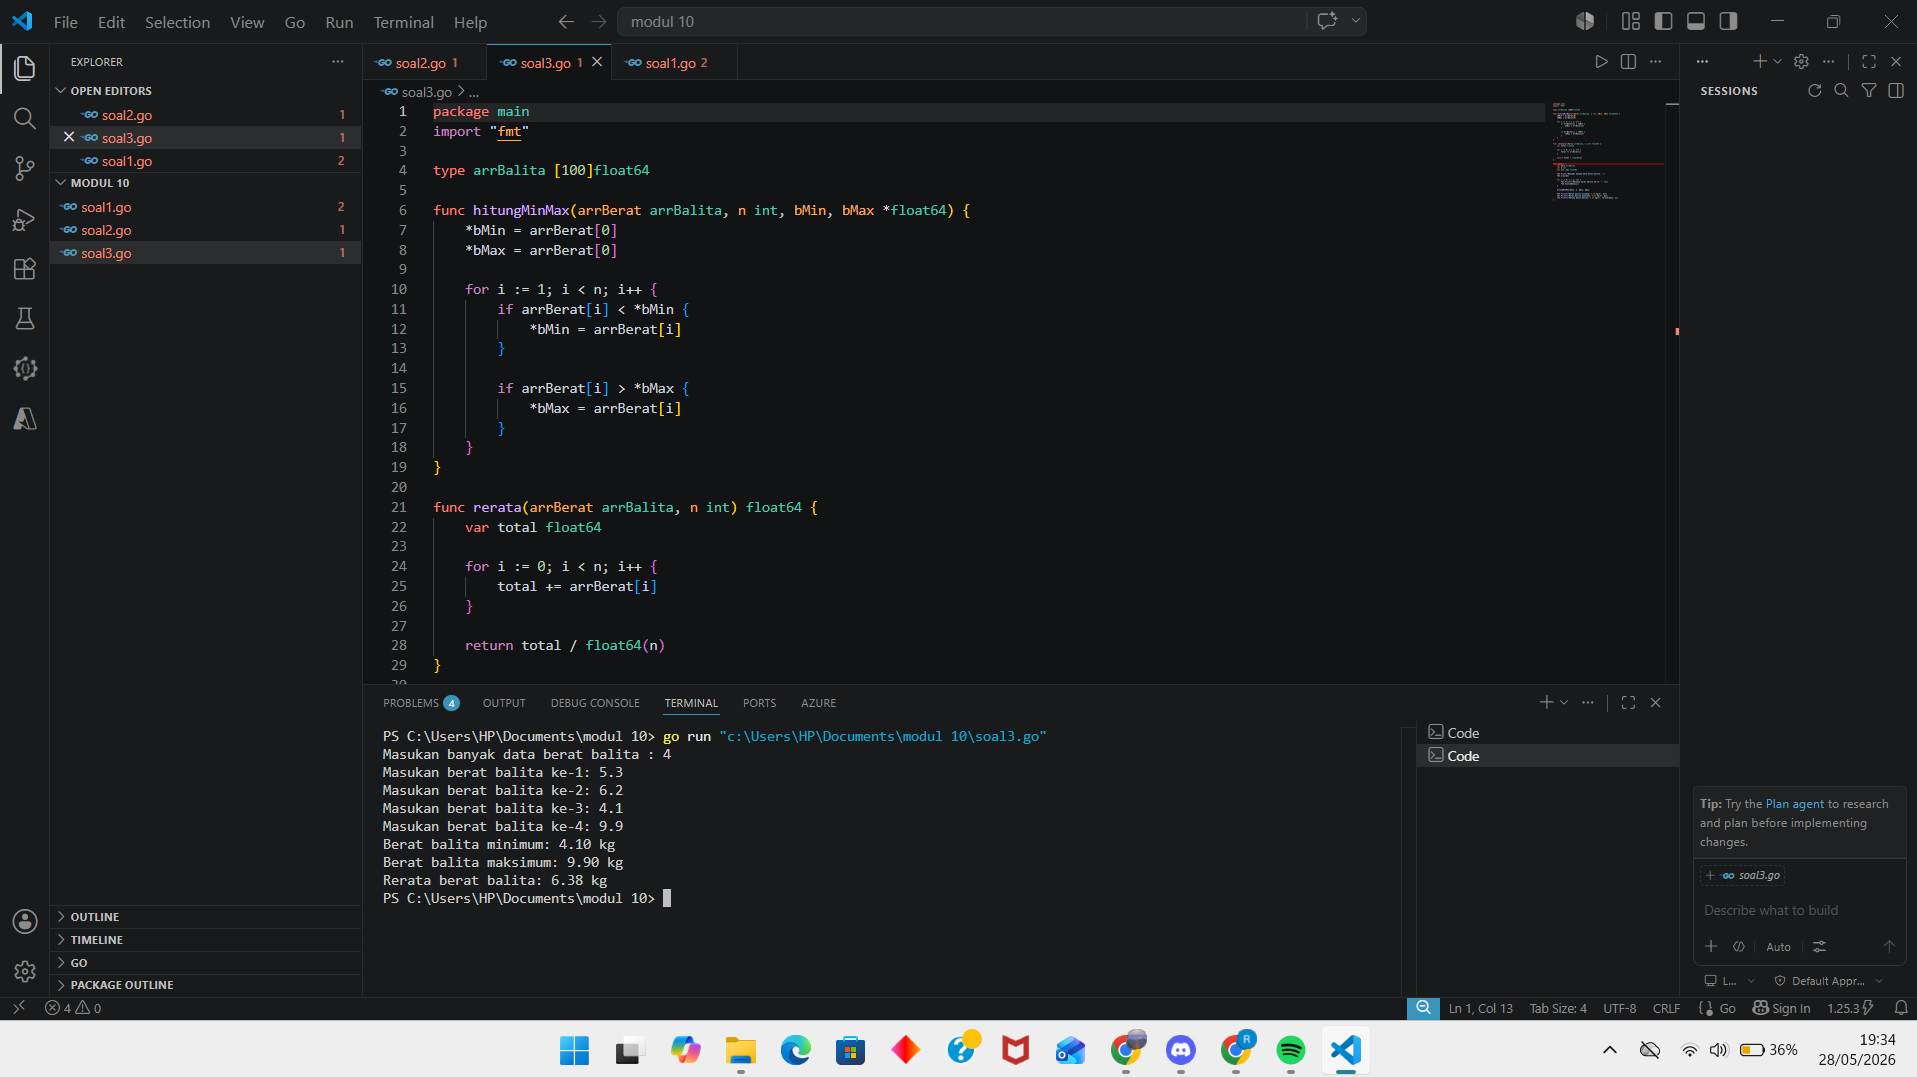
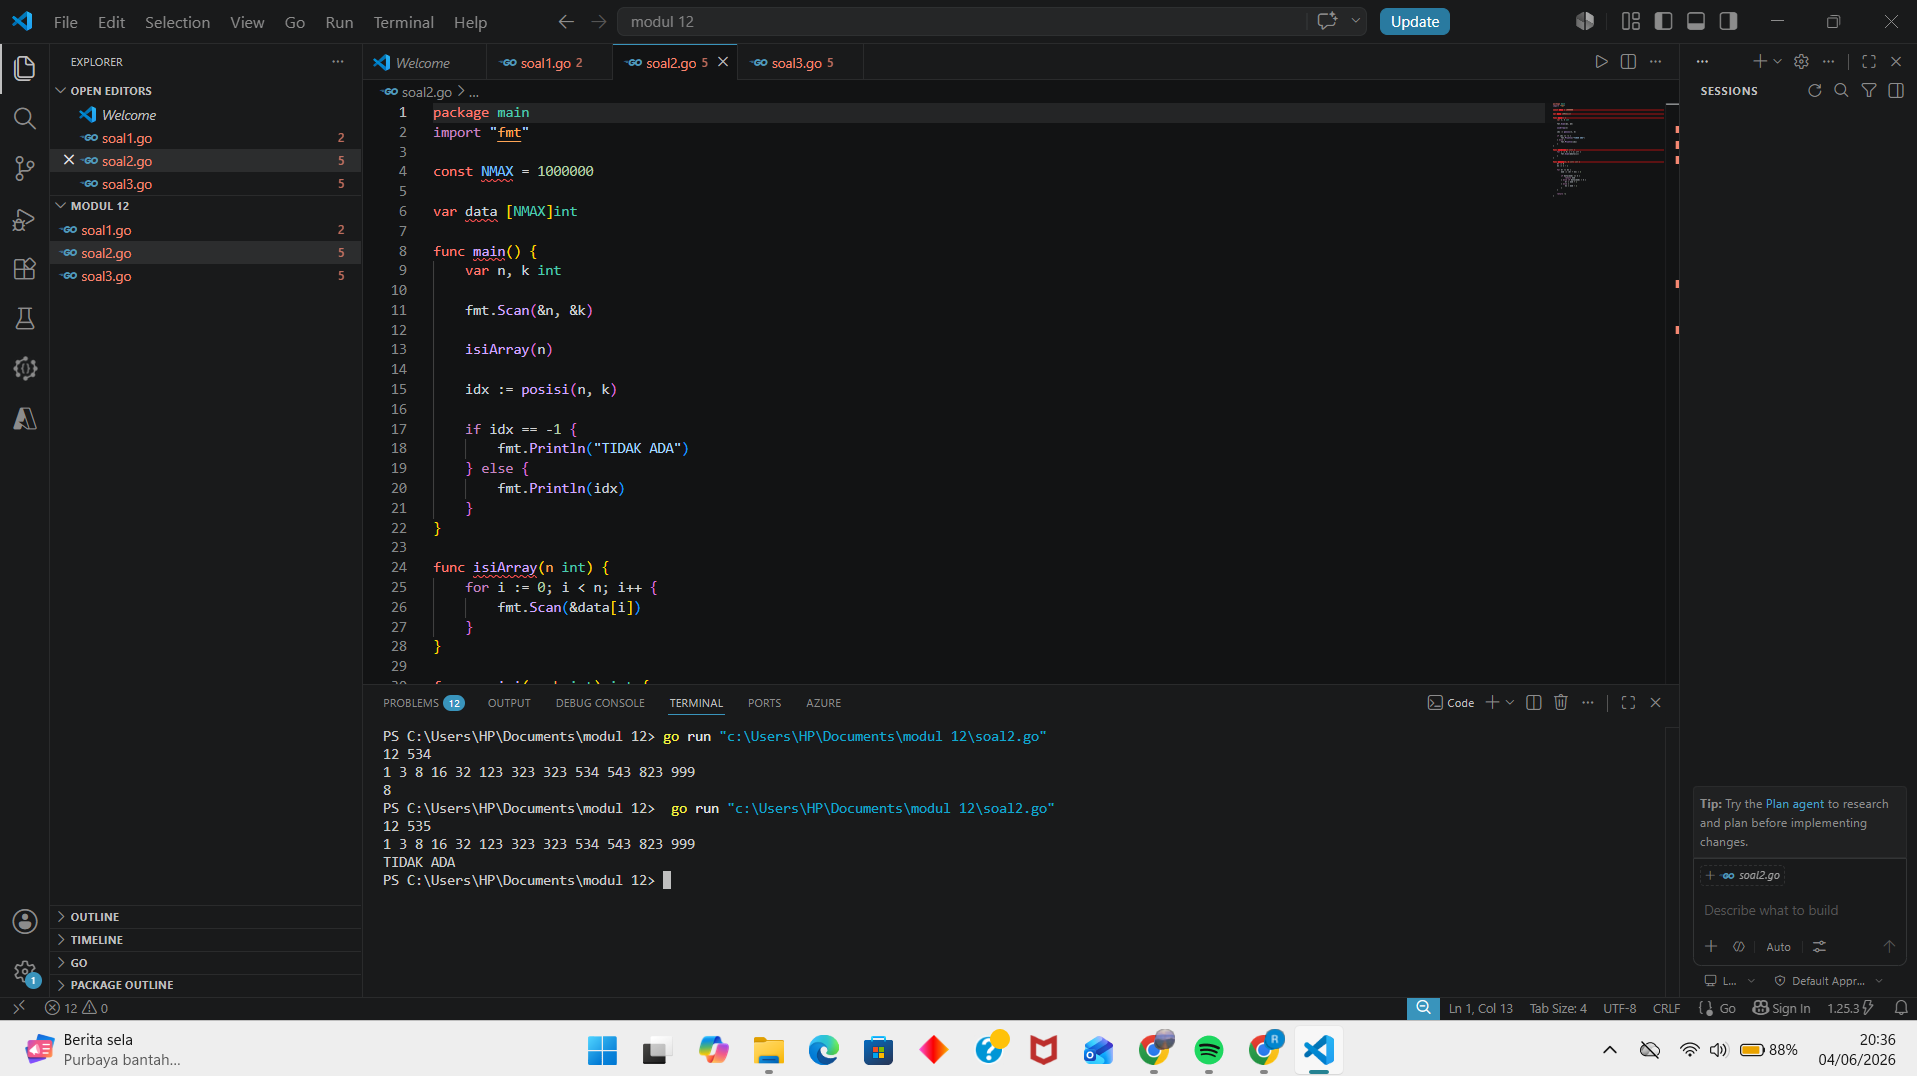
Add files via upload

diff --git a/soal2.go b/soal2.go
@@ -2,44 +2,44 @@ package main
 import "fmt"
 
 func main() {
-	var x, y int
-	var ikan [1000]float64
+	var x int
+	var masuk, sah int
+	var suara [21]int
 
-	fmt.Print("Masukkan jumlah ikan: ")
-	fmt.Scan(&x)
+	for {
+		fmt.Scan(&x)
+		masuk++
 
-	fmt.Print("Masukkan kapasitas ikan per wadah: ")
-	fmt.Scan(&y)
-
-	for i := 0; i < x; i++ {
-		fmt.Printf("Masukkan berat ikan ke-%d: ", i+1)
-		fmt.Scan(&ikan[i])
-	}
-
-	jumlahWadah := (x + y - 1) / y
-	var totalWadah [1000]float64
-	var totalSemua float64
-
-	index := 0
-
-	for i := 0; i < jumlahWadah; i++ {
-		total := 0.0
-
-		for j := 0; j < y && index < x; j++ {
-			total += ikan[index]
-			index++
+		if x == 0 {
+			break
 		}
 
-		totalWadah[i] = total
-		totalSemua += total
+		if x >= 1 && x <= 20 {
+			sah++
+			suara[x]++
+		}
 	}
 
-	fmt.Println("Total berat tiap wadah:")
-	for i := 0; i < jumlahWadah; i++ {
-		fmt.Printf("Wadah %d = %.2f\n", i+1, totalWadah[i])
+	ketua := 1
+	for i := 2; i <= 20; i++ {
+		if suara[i] > suara[ketua] {
+			ketua = i
+		}
 	}
 
-	rata := totalSemua / float64(jumlahWadah)
+	wakil := -1
+	for i := 1; i <= 20; i++ {
+		if i != ketua {
+			if wakil == -1 ||
+				suara[i] > suara[wakil] ||
+				(suara[i] == suara[wakil] && i < wakil) {
+				wakil = i
+			}
+		}
+	}
 
-	fmt.Printf("Rata-rata berat tiap wadah = %.2f\n", rata)
+	fmt.Println("Suara masuk:", masuk)
+	fmt.Println("Suara sah:", sah)
+	fmt.Println("Ketua RT:", ketua)
+	fmt.Println("Wakil ketua:", wakil)
 }

diff --git a/soal3.go b/soal3.go
@@ -1,49 +1,47 @@
 package main
 import "fmt"
 
-type arrBalita [100]float64
+const NMAX = 1000000
 
-func hitungMinMax(arrBerat arrBalita, n int, bMin, bMax *float64) {
-	*bMin = arrBerat[0]
-	*bMax = arrBerat[0]
-
-	for i := 1; i < n; i++ {
-		if arrBerat[i] < *bMin {
-			*bMin = arrBerat[i]
-		}
-
-		if arrBerat[i] > *bMax {
-			*bMax = arrBerat[i]
-		}
-	}
-}
-
-func rerata(arrBerat arrBalita, n int) float64 {
-	var total float64
-
-	for i := 0; i < n; i++ {
-		total += arrBerat[i]
-	}
-
-	return total / float64(n)
-}
+var data [NMAX]int
 
 func main() {
-	var data arrBalita
-	var n int
-	var min, max float64
+	var n, k int
 
-	fmt.Print("Masukan banyak data berat balita : ")
-	fmt.Scan(&n)
+	fmt.Scan(&n, &k)
 
+	isiArray(n)
+
+	idx := posisi(n, k)
+
+	if idx == -1 {
+		fmt.Println("TIDAK ADA")
+	} else {
+		fmt.Println(idx)
+	}
+}
+
+func isiArray(n int) {
 	for i := 0; i < n; i++ {
-		fmt.Printf("Masukan berat balita ke-%d: ", i+1)
 		fmt.Scan(&data[i])
 	}
+}
 
-	hitungMinMax(data, n, &min, &max)
+func posisi(n, k int) int {
+	kr := 0
+	kn := n - 1
 
-	fmt.Printf("Berat balita minimum: %.2f kg\n", min)
-	fmt.Printf("Berat balita maksimum: %.2f kg\n", max)
-	fmt.Printf("Rerata berat balita: %.2f kg\n", rerata(data, n))
+	for kr <= kn {
+		med := (kr + kn) / 2
+
+		if data[med] == k {
+			return med
+		} else if data[med] < k {
+			kr = med + 1
+		} else {
+			kn = med - 1
+		}
+	}
+
+	return -1
 }

diff --git a/soal1.go b/soal1.go
@@ -2,30 +2,30 @@ package main
 import "fmt"
 
 func main() {
-	var N int
-	var berat [1000]float64
-	var min, max float64
+	var x int
+	var masuk, sah int
+	var suara [21]int
 
-	fmt.Print("Masukkan jumlah anak kelinci: ")
-	fmt.Scan(&N)
+	for {
+		fmt.Scan(&x)
+		masuk++
 
-	for i := 0; i < N; i++ {
-		fmt.Printf("Masukkan berat kelinci ke-%d: ", i+1)
-		fmt.Scan(&berat[i])
+		if x == 0 {
+			break
+		}
 
-		if i == 0 {
-			min = berat[i]
-			max = berat[i]
-		} else {
-			if berat[i] < min {
-				min = berat[i]
-			}
-			if berat[i] > max {
-				max = berat[i]
-			}
+		if x >= 1 && x <= 20 {
+			sah++
+			suara[x]++
 		}
 	}
 
-	fmt.Printf("Berat kelinci terkecil: %.2f\n", min)
-	fmt.Printf("Berat kelinci terbesar: %.2f\n", max)
+	fmt.Println("Suara masuk:", masuk)
+	fmt.Println("Suara sah:", sah)
+
+	for i := 1; i <= 20; i++ {
+		if suara[i] > 0 {
+			fmt.Printf("%d: %d\n", i, suara[i])
+		}
+	}
 }
